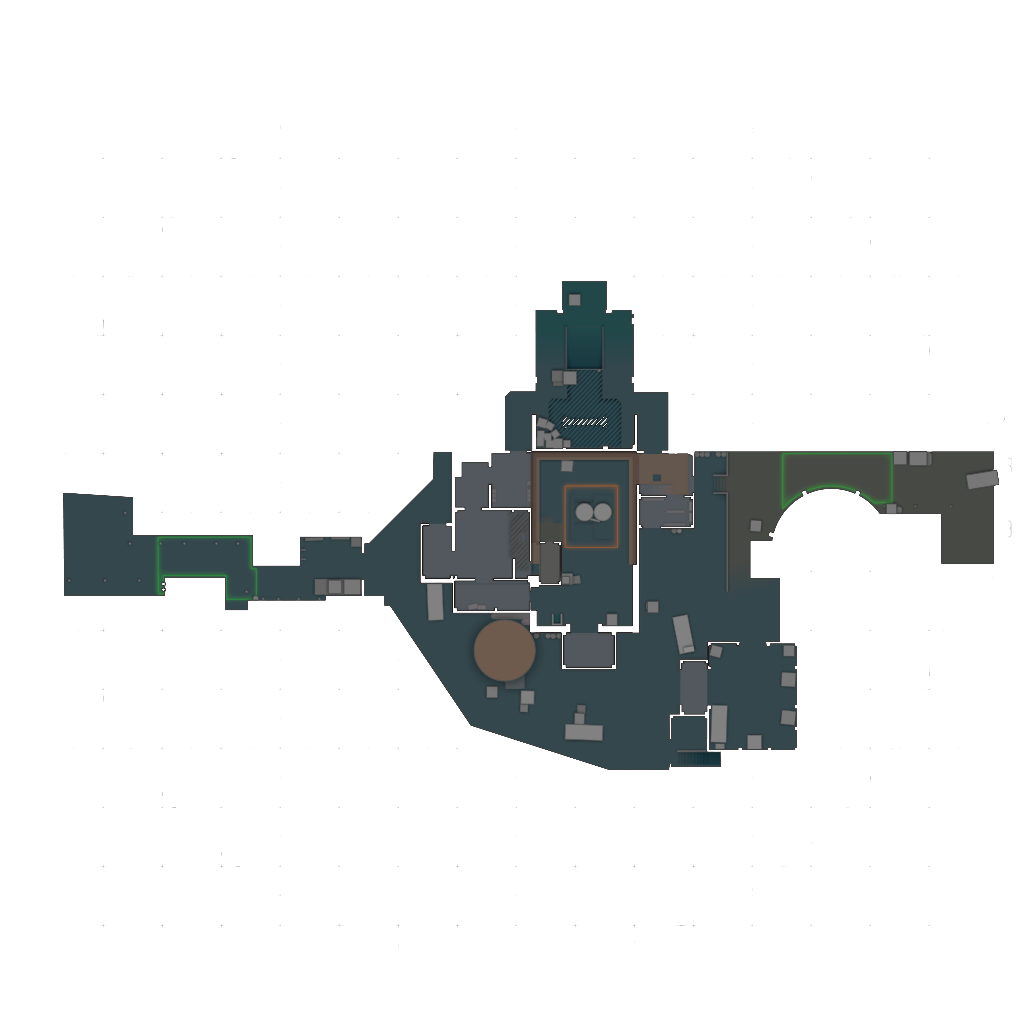
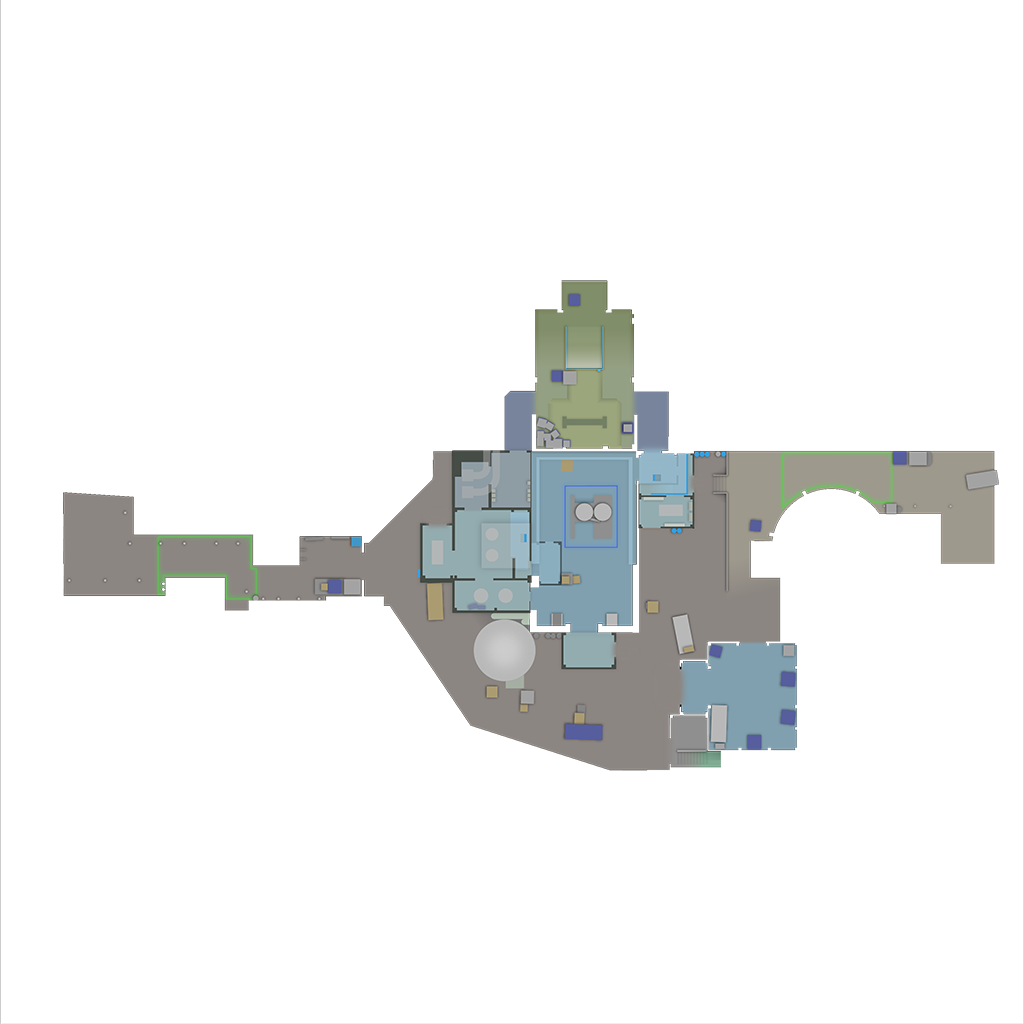
feat(webapp): separate lower-level radar for de_nuke and de_vertigo
Both maps stack two levels on one x/y plane, so lower-level players were drawn
on the upper image. Ship the game's own default and lower radar images, store
the altitude cutoff as lowerBelow in data.json, and have Radar show the level
the local player is on and dim players on the other one.

Claude-Session: https://claude.ai/code/session_018rTo7X5YaxvNLyJbrk7cAK

Changed region(s): [[0.0625, 0.25, 1.0, 0.75]]

diff --git a/webapp/src/components/radar.jsx b/webapp/src/components/radar.jsx
@@ -1,5 +1,5 @@
 import { useMemo, useState } from "react";
-import { getRadarPosition } from "../utilities/utilities";
+import { getRadarPosition, isLowerLevel } from "../utilities/utilities";
 import Player from "./player";
 import Bomb from "./bomb";
 import GrenadeLayer from "./GrenadeLayer";
@@ -34,6 +34,11 @@ const Radar = ({
     };
   }, [imgEl]);
 
+  // Show the level the local player is on; players on the other level are dimmed.
+  const local = playerArray.find((p) => p.m_is_local);
+  const lower = isLowerLevel(mapData, local?.m_position?.z);
+  const radarSrc = lower ? radarImage.replace(/radar\.png$/, "radar_lower.png") : radarImage;
+
   const zoom = Math.max(1, settings?.zoom ?? 1);
   const follow = settings?.followMe ?? false;
   const me = follow ? playerArray.find((p) => p.m_is_local && !p.m_is_dead) : null;
@@ -62,7 +67,7 @@ const Radar = ({
           transition: "transform 150ms linear",
         }}
       >
-      <img ref={setRadarImageEl} className="w-full h-auto" src={radarImage} />
+      <img ref={setRadarImageEl} className="w-full h-auto" src={radarSrc} />
 
       <CalloutLayer
         mapName={mapData?.name}
@@ -71,15 +76,22 @@ const Radar = ({
       />
 
       {playerArray.map((player) => (
-        <Player
+        <div
           key={player.m_idx}
-          playerData={player}
-          mapData={mapData}
-          radarImage={radarImageEl}
-          localTeam={localTeam}
-          averageLatency={averageLatency}
-          settings={settings}
-        />
+          style={{
+            position: "absolute", inset: 0,
+            opacity: isLowerLevel(mapData, player.m_position?.z) !== lower ? 0.35 : undefined,
+          }}
+        >
+          <Player
+            playerData={player}
+            mapData={mapData}
+            radarImage={radarImageEl}
+            localTeam={localTeam}
+            averageLatency={averageLatency}
+            settings={settings}
+          />
+        </div>
       ))}
 
       {bombData && bombData.x !== undefined && (

diff --git a/webapp/src/utilities/utilities.jsx b/webapp/src/utilities/utilities.jsx
@@ -8,6 +8,11 @@ export const getLocalTeam = (players, fallback) => {
   return me ? me.m_team : fallback;
 };
 
+// Multi-level maps (nuke, vertigo) ship a second radar image for everything
+// below `lowerBelow` (z). Maps without it always use the single image.
+export const isLowerLevel = (mapData, z) =>
+  mapData?.lowerBelow !== undefined && typeof z === "number" && z < mapData.lowerBelow;
+
 export const getRadarPosition = (mapData, entityCoords) => {
   if (!entityCoords.x || !entityCoords.y) {
     return { x: 0, y: 0 };

diff --git a/CLAUDE.md b/CLAUDE.md
@@ -44,6 +44,7 @@ Entry: `webapp/src/app.jsx`
 - `radar.png` — overhead map image
 - `background.webp` — page background (1280 px WebP, ~70 KB; `background.png` is still accepted as a fallback, which is what runtime-extracted maps use)
 - `callouts.json` — named area coordinates for the callout overlay layer
+- `radar_lower.png` + `"lowerBelow": <z>` in `data.json` — optional second level for stacked maps (nuke, vertigo). `Radar` shows the lower image while the local player's z is below the cutoff and dims players on the other level. Values come from the `verticalsections` in the game's `resource/overviews/<map>.txt`; the lower image is `<map>_lower_radar_psd.vtex_c` (LZ4-compressed RGBA8888, 1024x1024).
 
 **Radar coordinate conversion**: world (x, y) → radar pixel = `(worldCoord - mapOrigin) / scale`. Both `Player` and `Bomb` components implement this.
 
